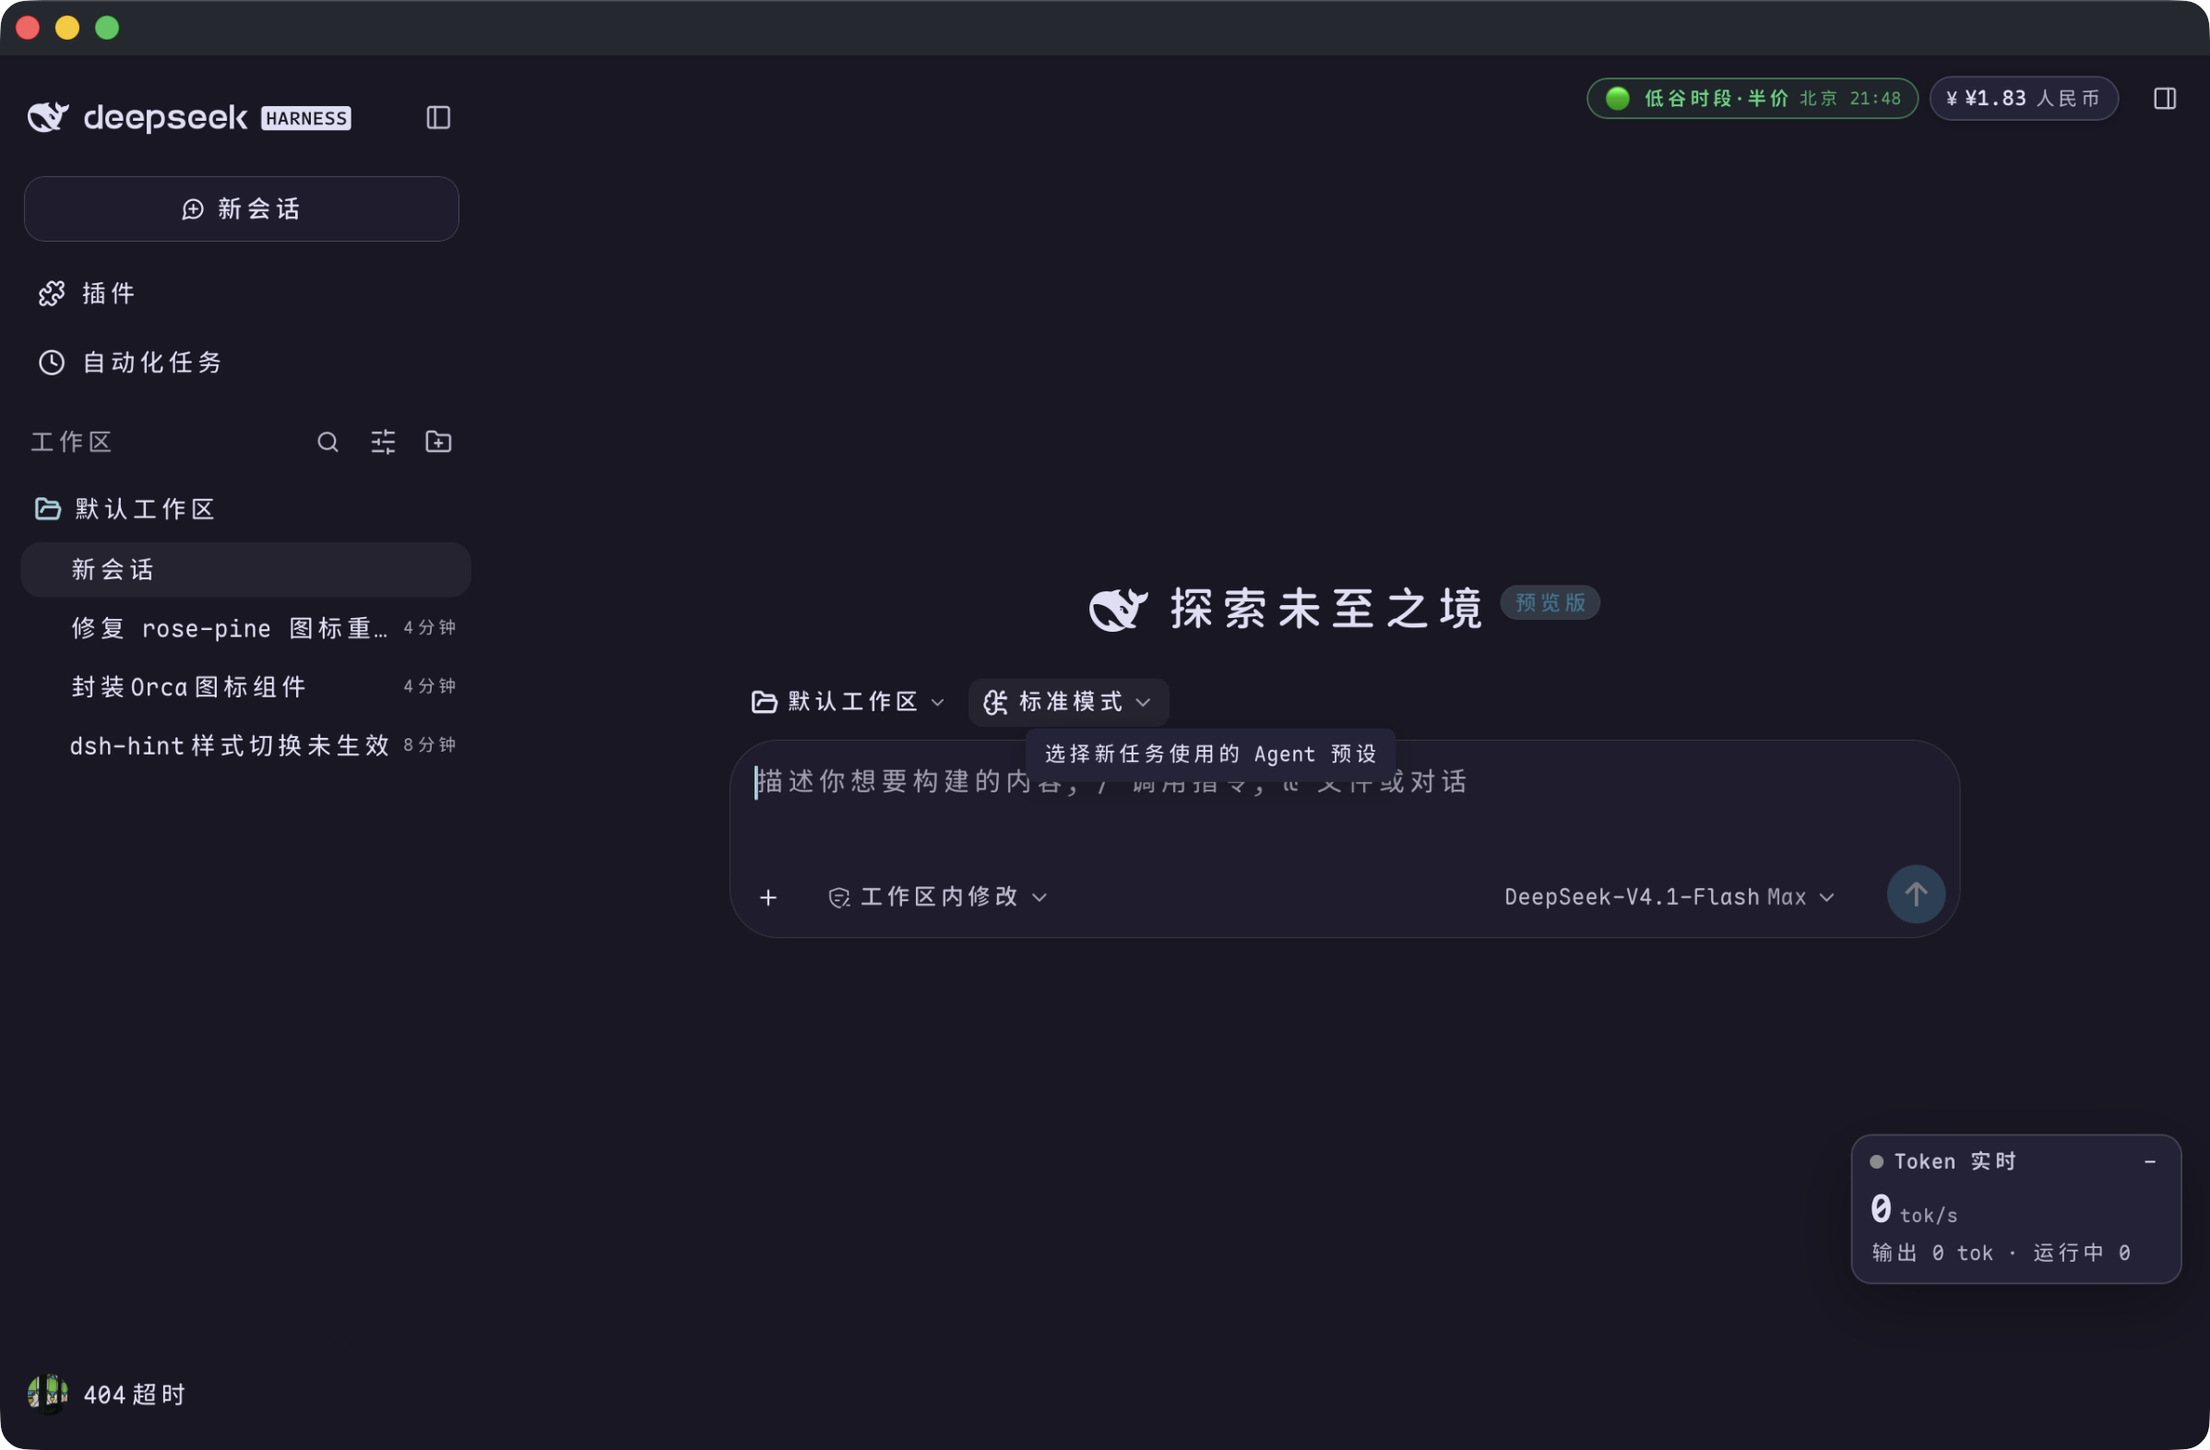
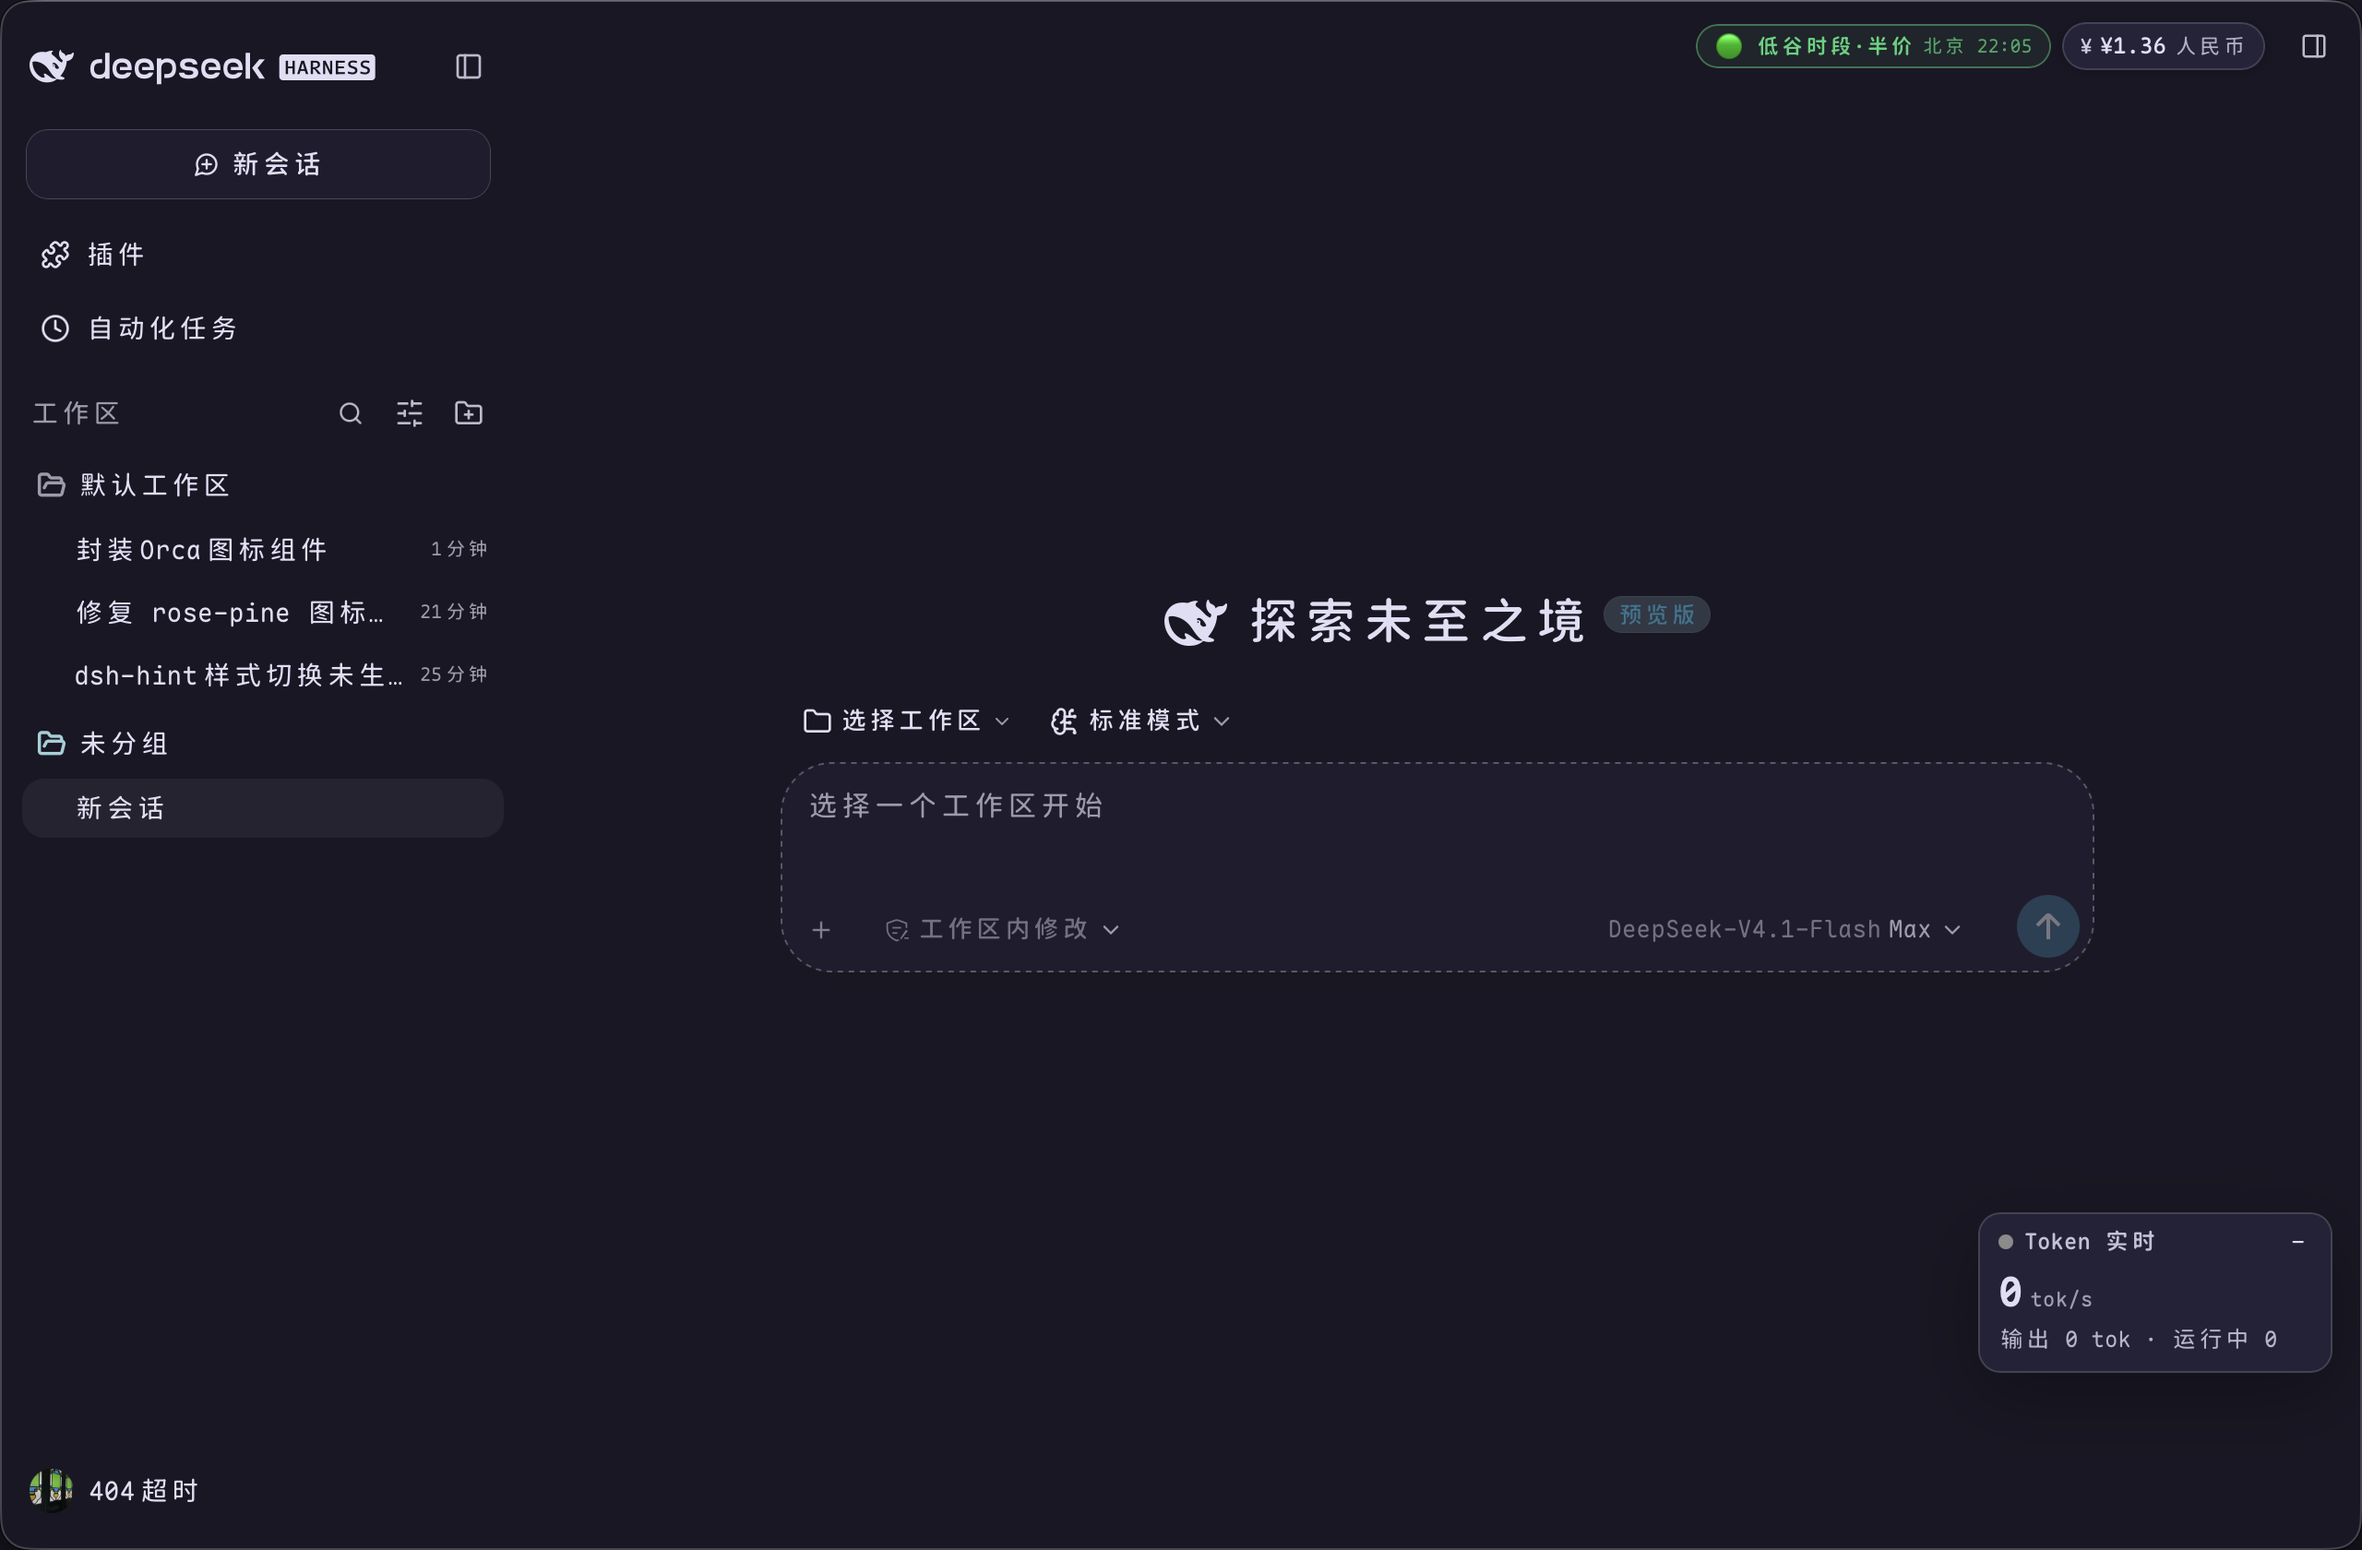
[样式] 隐藏红绿灯与可见标题栏：内容全幅，页面 header 作为窗口拖拽区

diff --git a/Sources/Orca/WebPageController.swift b/Sources/Orca/WebPageController.swift
@@ -20,7 +20,7 @@ final class WebPageController: NSObject {
         let userContentController = WKUserContentController()
         configuration.userContentController = userContentController
 
-        webView = WKWebView(frame: .zero, configuration: configuration)
+        webView = DraggableWebView(frame: .zero, configuration: configuration)
         super.init()
 
         webView.navigationDelegate = self
@@ -37,9 +37,13 @@ final class WebPageController: NSObject {
             WKUserScript(source: Self.documentStartScript, injectionTime: .atDocumentStart, forMainFrameOnly: true)
         )
         userContentController.addUserScript(
+            WKUserScript(source: Self.dragZoneScript, injectionTime: .atDocumentEnd, forMainFrameOnly: true)
+        )
+        userContentController.addUserScript(
             WKUserScript(source: Self.documentEndScript, injectionTime: .atDocumentEnd, forMainFrameOnly: true)
         )
         userContentController.add(WeakScriptMessageHandler(target: self), name: "themeSource")
+        userContentController.add(WeakScriptMessageHandler(target: self), name: "titleBar")
         userContentController.add(WeakScriptMessageHandler(target: self), name: "diagnostics")
         userContentController.addScriptMessageHandler(
             WeakReplyScriptMessageHandler(target: self),
@@ -199,6 +203,49 @@ final class WebPageController: NSObject {
     })();
     """#
 
+    /// Reports the page header height so the hidden title bar keeps a matching drag band.
+    private static let dragZoneScript = #"""
+    (function () {
+      function report() {
+        var height = 0;
+        var headers = document.querySelectorAll('header');
+        for (var index = 0; index < headers.length; index += 1) {
+          var rect = headers[index].getBoundingClientRect();
+          if (rect.top <= 2 && rect.height >= 24 && rect.height <= 160 && rect.width >= 400) {
+            height = Math.round(rect.height);
+            break;
+          }
+        }
+        try {
+          window.webkit.messageHandlers.titleBar.postMessage({ height: height });
+        } catch (error) {}
+      }
+
+      var timer = null;
+      function schedule() {
+        if (timer !== null) { return; }
+        timer = window.setTimeout(function () {
+          timer = null;
+          report();
+        }, 150);
+      }
+
+      function start() {
+        report();
+        window.setTimeout(report, 500);
+        window.setTimeout(report, 1500);
+        new MutationObserver(schedule).observe(document.documentElement, { childList: true, subtree: true });
+        window.addEventListener('resize', schedule);
+      }
+
+      if (document.readyState === 'loading') {
+        document.addEventListener('DOMContentLoaded', start);
+      } else {
+        start();
+      }
+    })();
+    """#
+
     /// Mirrors the web UI theme source so native chrome follows the page palette.
     private static let documentEndScript = #"""
     (function () {
@@ -299,6 +346,12 @@ extension WebPageController: WKScriptMessageHandler {
             if let source = message.body as? String {
                 onThemeSource?(source)
             }
+        case "titleBar":
+            guard let payload = message.body as? [String: Any],
+                  let height = (payload["height"] as? NSNumber)?.doubleValue,
+                  height >= 24
+            else { return }
+            (webView as? DraggableWebView)?.dragZoneHeight = CGFloat(height)
         case "diagnostics":
             if let line = message.body as? String {
                 Self.appendDiagnostic(line)

diff --git a/Sources/Orca/DraggableWebView.swift b/Sources/Orca/DraggableWebView.swift
@@ -1,0 +1,34 @@
+import AppKit
+import WebKit
+
+/// Web view that turns drags starting in the page header into native window moves.
+///
+/// The window hides its traffic lights and runs full-bleed, so the page header is the drag
+/// handle. The reported `dragZoneHeight` follows the measured page header; clicks are always
+/// forwarded to the web process first, so buttons inside the header keep working.
+final class DraggableWebView: WKWebView {
+    /// Height of the draggable band measured from the top of the view.
+    var dragZoneHeight: CGFloat = 40
+
+    private var pressedInDragZone = false
+
+    override func mouseDown(with event: NSEvent) {
+        let point = convert(event.locationInWindow, from: nil)
+        let distanceFromTop = isFlipped ? point.y : bounds.height - point.y
+        pressedInDragZone = bounds.height > dragZoneHeight * 2 && distanceFromTop <= dragZoneHeight
+        super.mouseDown(with: event)
+    }
+
+    override func mouseDragged(with event: NSEvent) {
+        if pressedInDragZone || event.modifierFlags.contains(.command) {
+            window?.performDrag(with: event)
+            return
+        }
+        super.mouseDragged(with: event)
+    }
+
+    override func mouseUp(with event: NSEvent) {
+        pressedInDragZone = false
+        super.mouseUp(with: event)
+    }
+}

diff --git a/Sources/Orca/MainWindowController.swift b/Sources/Orca/MainWindowController.swift
@@ -18,7 +18,7 @@ final class MainWindowController: NSWindowController, NSWindowDelegate {
 
         let window = NSWindow(
             contentRect: NSRect(x: 0, y: 0, width: 1280, height: 840),
-            styleMask: [.titled, .closable, .miniaturizable, .resizable],
+            styleMask: [.titled, .closable, .miniaturizable, .resizable, .fullSizeContentView],
             backing: .buffered,
             defer: false
         )
@@ -148,6 +148,10 @@ final class MainWindowController: NSWindowController, NSWindowDelegate {
             window.center()
         }
         window.setFrameAutosaveName("OrcaMainWindow")
+
+        for button in [NSWindow.ButtonType.closeButton, .miniaturizeButton, .zoomButton] {
+            window.standardWindowButton(button)?.isHidden = true
+        }
     }
 
     private func buildContent(in window: NSWindow) {

diff --git a/README.md b/README.md
@@ -26,7 +26,8 @@ osascript -e 'quit app "Orca"'; open -a /Applications/Orca.app
 - 启动前检查端口，随后拉起 `dsh --profile web --port <port> --no-open`；服务就绪通常需要 3–6 秒，期间显示原生启动页。
 - 启动失败时显示原因，并提供「Try Again / Service Log / Settings…」。
 - 上次运行异常退出留下的服务进程会被下一次启动复用（不重新拉起，端口与登录 cookie 不变）。
-- 关闭窗口（⌘W）不退出应用，点 Dock 图标回到窗口；⌘Q 退出并停止服务。
+- 无红绿灯、无可见标题栏：页面整幅铺满窗口，顶部页面 header 就是拖拽区（高度按页面 header 实测，兜底 40px）；点按仍先交给网页，按钮不受影响。
+- 关闭窗口（⌘W）不退出应用，点 Dock 图标回到窗口；最小化 ⌘M；⌘Q 退出并停止服务。
 - 菜单栏：File / Edit / View / Service / Window / Help；Edit 走系统响应链，输入框的剪切复制粘贴正常。
 
 ## 快捷键
@@ -37,6 +38,7 @@ osascript -e 'quit app "Orca"'; open -a /Applications/Orca.app
 | 从服务器重新加载 | ⌥⌘R |
 | 实际大小 / 放大 / 缩小 | ⌘0 / ⌘+ / ⌘- |
 | 全屏 | ⌃⌘F |
+| 拖动窗口 | 按住页面顶部 header 拖动 |
 | 关闭窗口（应用保留） | ⌘W |
 | 最小化 | ⌘M |
 | 设置 | ⌘, |
@@ -89,7 +91,9 @@ build.sh                        编译 + 组装 + 安装
 
 ## 实现说明
 
-- **用 Web 运行时，而不是 Electron 桌面运行时**：DSH 页面把 `html[data-platform]` 当作「桌面壳」标志，会要求 `window.dshDesktop` 的原生键盘桥；WKWebView 没有这套桥，设了该属性反而会让 `dsh-client-ui-shortcuts` 启动失败。Orca 不设该属性，页面走浏览器路径；窗口使用系统标准标题栏，红绿灯不会压住页面内容。
+- **用 Web 运行时，而不是 Electron 桌面运行时**：DSH 页面把 `html[data-platform]` 当作「桌面壳」标志，会要求 `window.dshDesktop` 的原生键盘桥；WKWebView 没有这套桥，设了该属性反而会让 `dsh-client-ui-shortcuts` 启动失败。Orca 不设该属性，页面走浏览器路径。
+- **无红绿灯窗口**：窗口保留 `.titled + .fullSizeContentView` 以维持阴影、圆角、缩放与全屏，只隐藏三个标准窗口按钮；`WKWebView` 子类在顶部拖拽区内把拖动转成 `performDrag`，点击先调 `super.mouseDown` 再决定，页面按钮照常响应。
+- **拖拽区跟高**：注入脚本查找视口顶部、宽 ≥ 400、高 24–160 的 `<header>`，把实测高度上报给原生侧；找不到时用 40px 兜底。
 - **透明 WebView**：`WKWebView.drawsBackground = false` + `underPageBackgroundColor = .clear`，页面按自己的浅/深色绘制。
 - **主题**：页面把主题写在 `html[data-ds-theme-source]`，应用同步 `NSApp.appearance`，标题栏、菜单、原生对话框跟随页面明暗。
 - **文件选择**：注入 `__DSH_DIRECTORY_PICKER__`，用 `NSOpenPanel` 选择工作区目录。
